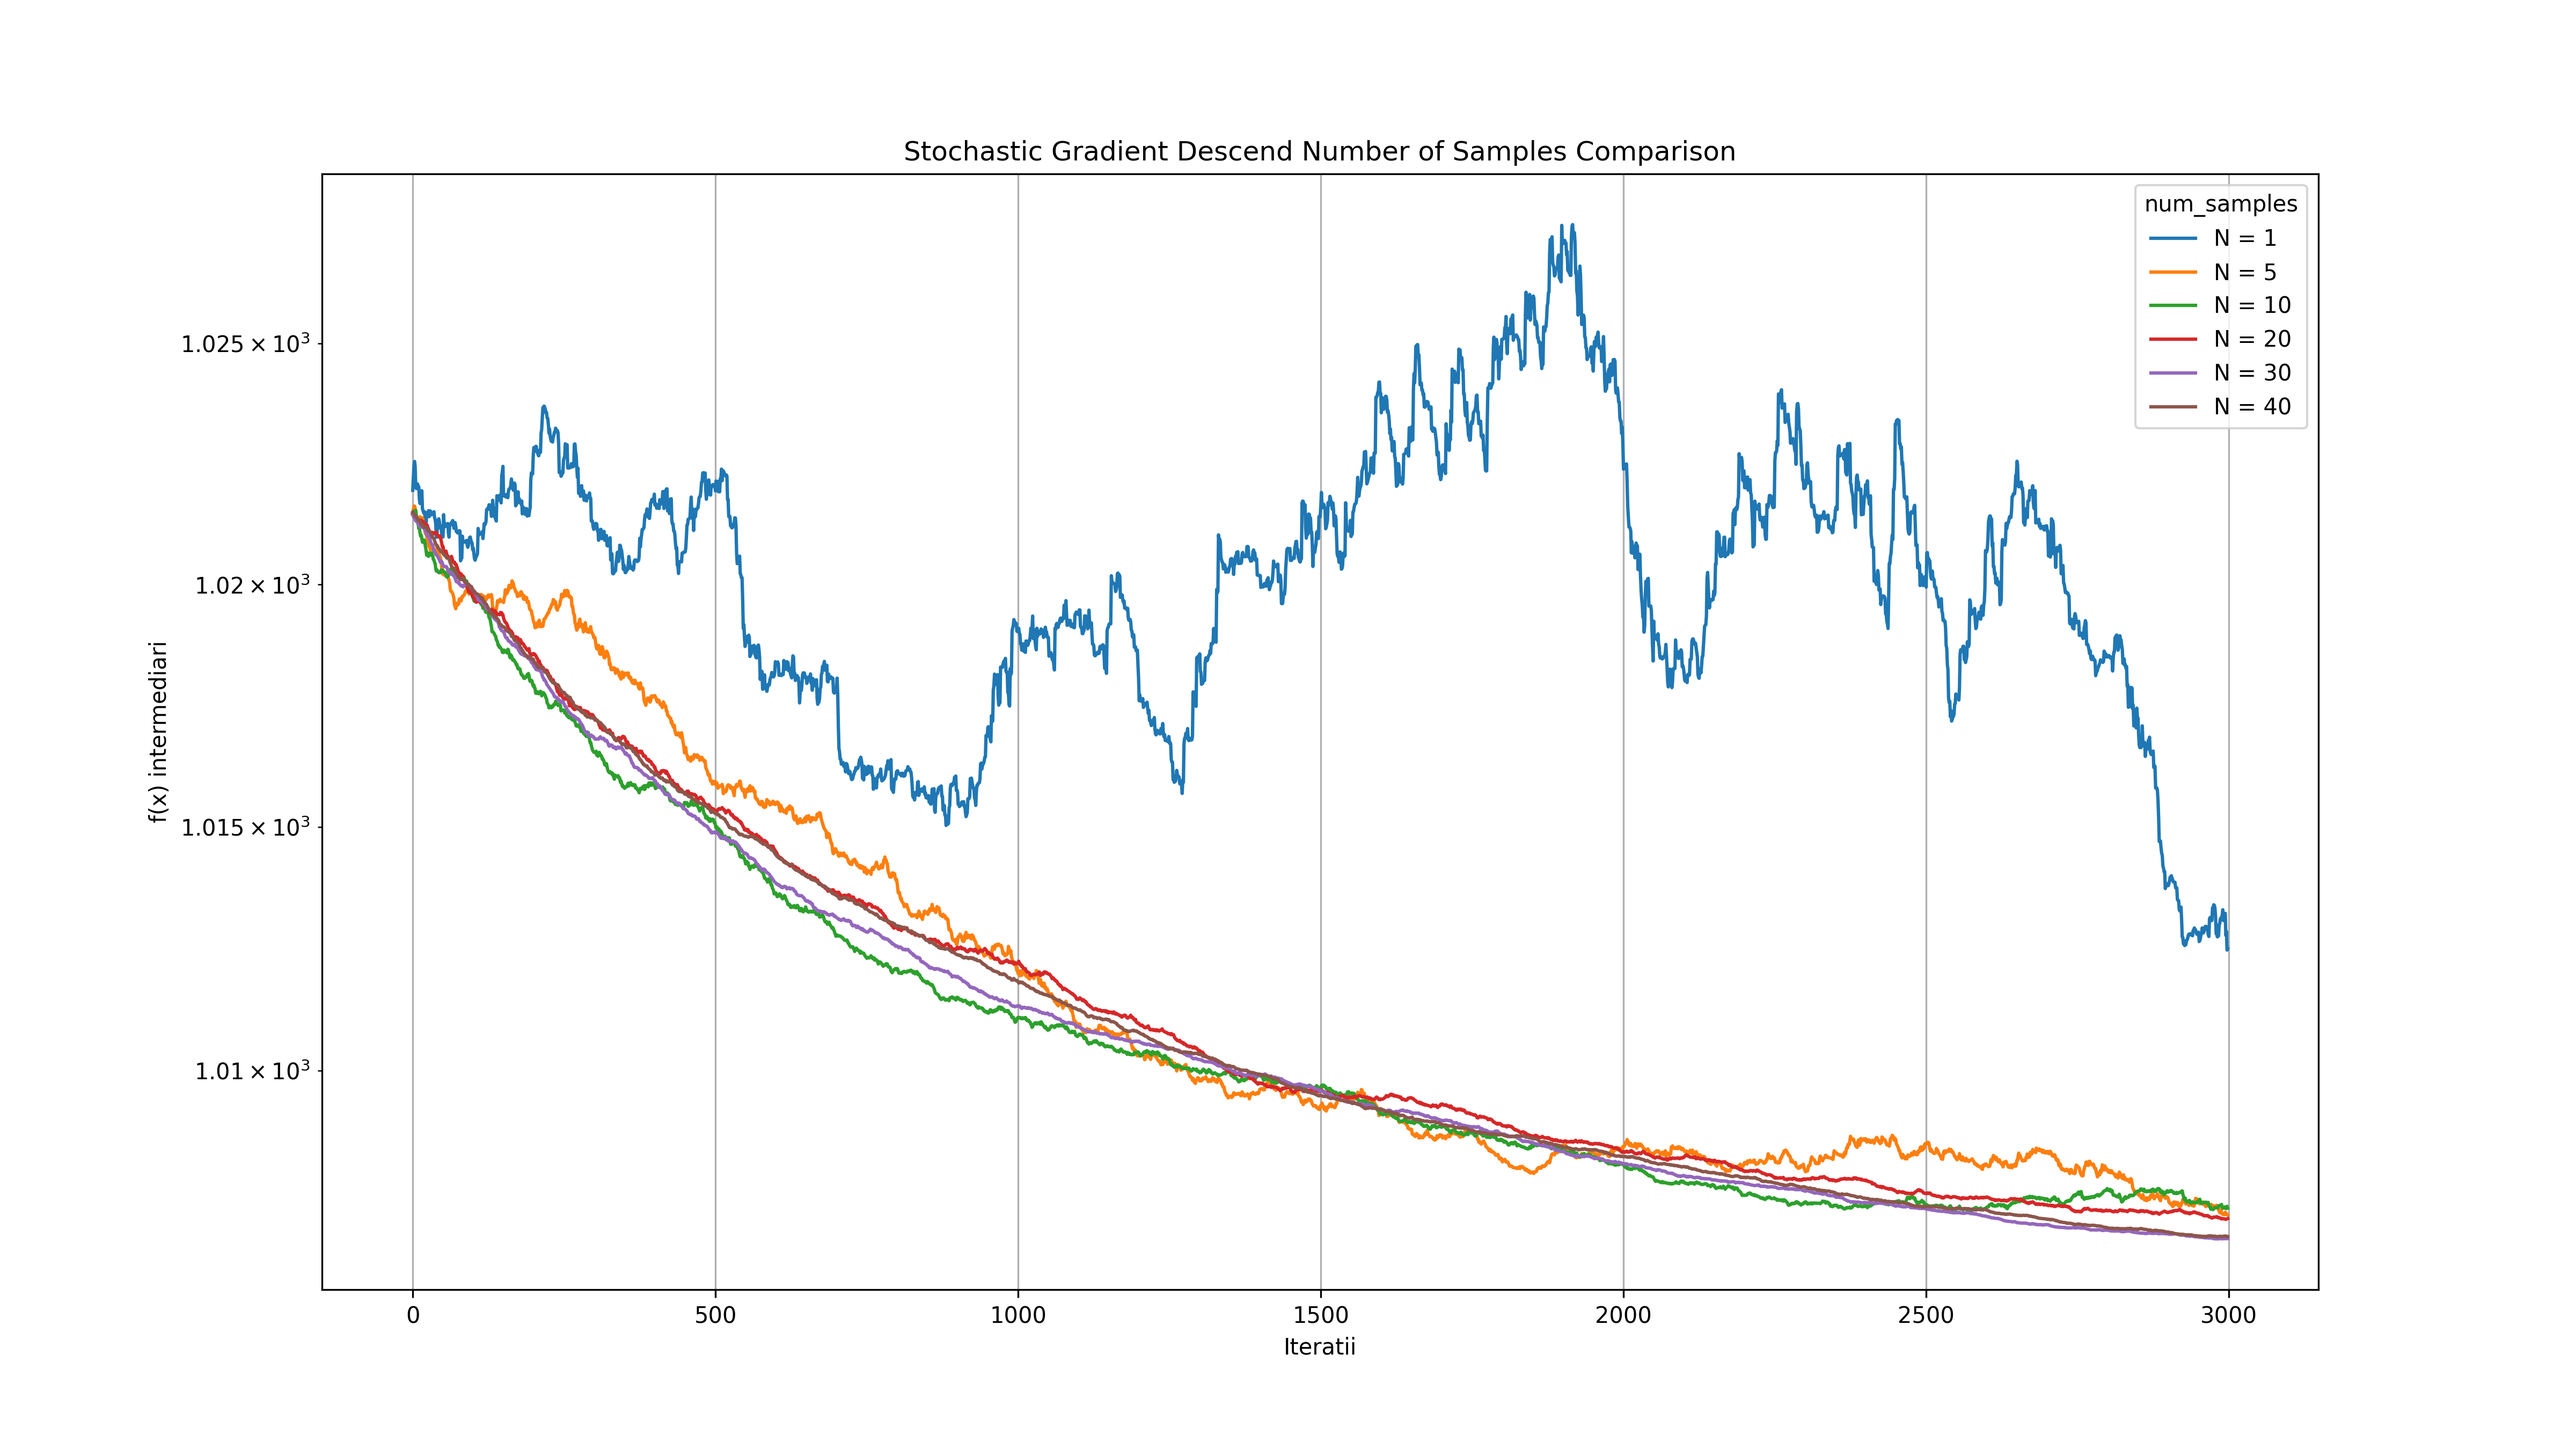
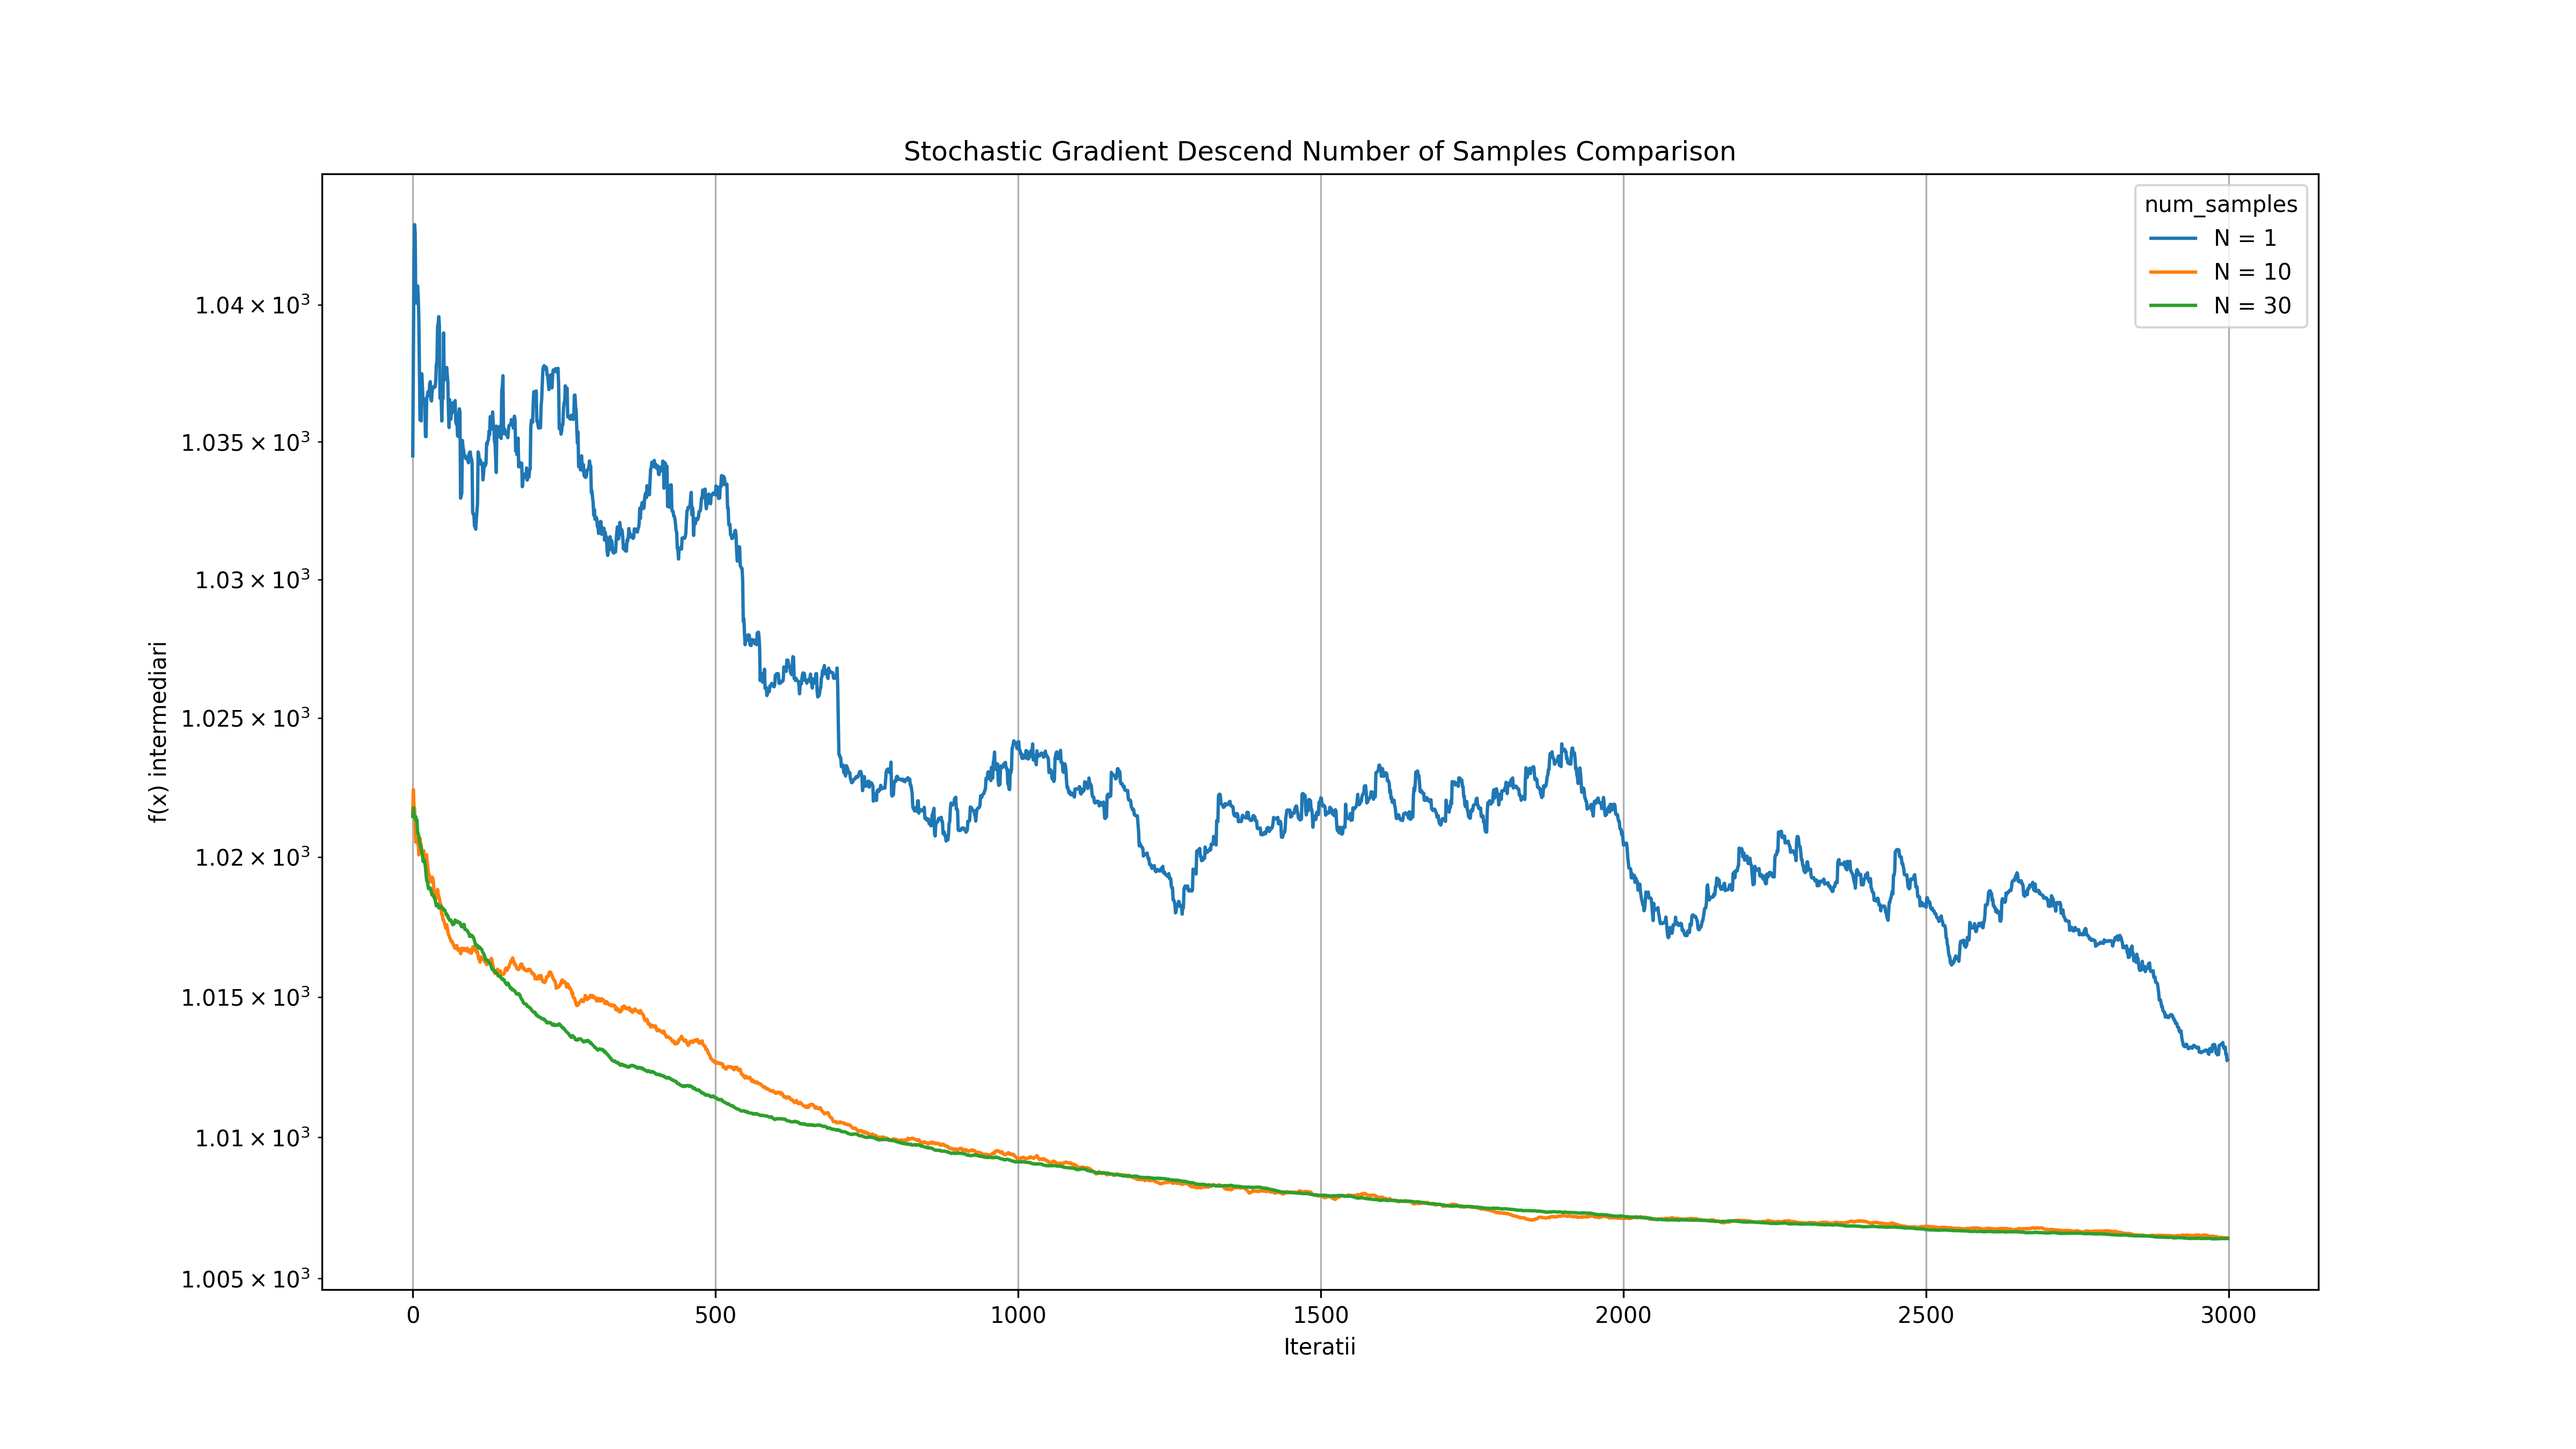
lab2 ex1 done

diff --git a/lab2/src/1.py b/lab2/src/1.py
@@ -120,12 +120,10 @@ def stochastic_gradient_descend(A, b, N, beta = 0.4, T = 3000, comparison = Fals
 
         grad_aprox = A_selected.T @ (A_selected @ x - b_selected) / N
 
-        # eroarea de aproximare a gradientului este mare, aprox. 10^6. din cauza numarului de conditionare mare
-        # => "omitem" directii puternice cand facem acel sampling 
         if comparison:
             grad_real = gradient(A, x, b)
             dist = grad_real - grad_aprox
-            err.append(np.linalg.norm(dist) / np.linalg.norm(grad_real)) # aduc la norma gradientului ca sa vizualizez mai bine
+            err.append(np.linalg.norm(dist)) 
 
         x -= (alpha / (k ** beta)) * grad_aprox
 
@@ -180,8 +178,7 @@ def plot_intermediars(intermediars_list, labels, title, file_name, legend_title,
     plt.legend(title = legend_title)
     plt.grid()
     plt.yscale('log')
-    # plt.savefig(f'../plots/1_{file_name}.png', dpi = 300)
-    plt.show()
+    plt.savefig(f'../plots/1_{file_name}.png', dpi = 300)
     plt.clf()
 
 def plot_alphas(alphas_list, labels, file_name):
@@ -239,8 +236,8 @@ labels = ['constant', 'steepest', 'backtracking']
 title = 'Strategii de alegere a pasului de gradient pentru Gradient Descend'
 file_name = 'gradient_descend_f_b'
 legend_title = 'alpha_method'
-# plot_intermediars(intermediars_list, labels, title, file_name, legend_title)
-# plot_alphas(alphas_list, labels, 'gradient_descend_alpha_b')
+plot_intermediars(intermediars_list, labels, title, file_name, legend_title)
+plot_alphas(alphas_list, labels, 'gradient_descend_alpha_b')
 
 
 # c)
@@ -255,10 +252,10 @@ for n in N:
     errors.append(error)
     labels.append(f'N = {n}')
 plot_intermediars(intermediars_list, labels, 'Stochastic Gradient Descend Number of Samples Comparison', 'stochastic_gradient_descend_c', 'num_samples')
-# plot_intermediars([errors[0]], [labels[0]], 'Stochastic Gradient Descend Gradient Error Comparison', 'stochastic_gradient_descend_err_c', 'num_samples', labeloy = 'error')
+plot_intermediars(errors, labels, 'Stochastic Gradient Descend Gradient Error Comparison', 'stochastic_gradient_descend_err_c', 'num_samples', labeloy = r'$\|\nabla f - g\|$')
 
 
 # d)
 print("\n\n-- Stochastic Gradient Descend (with gradient 0.01 < aproximation error < 0.1) --")
 x_star, intermediars_stochastic_d = stochastic_gradient_descend_d(A, b)
-# plot_intermediars([intermediars_stochastic_d], ['gradient'], 'Stochastic Gradient Descend (with gradient 0.01 < aproximation error < 0.1)', 'stochastic_gradient_descend_d', '')
+plot_intermediars([intermediars_stochastic_d], ['gradient'], 'Stochastic Gradient Descend (with gradient 0.01 < aproximation error < 0.1)', 'stochastic_gradient_descend_d', '')
